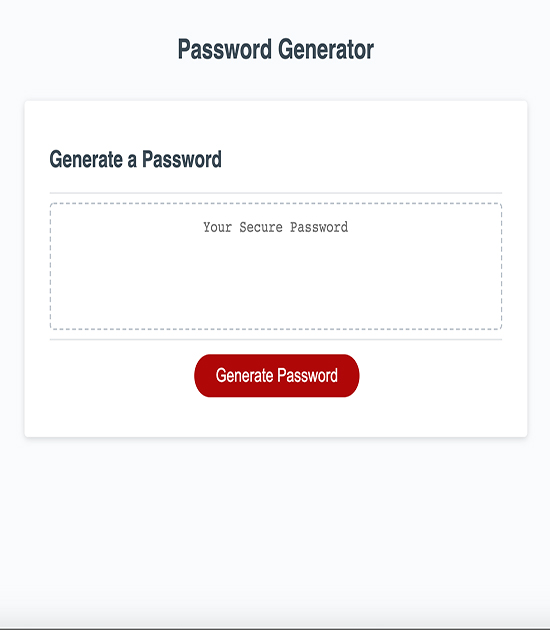
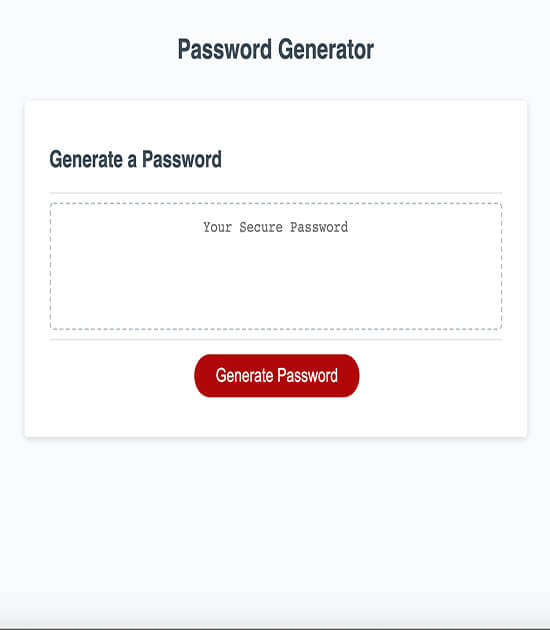
ruduce image size

diff --git a/css/style.css b/css/style.css
@@ -160,14 +160,6 @@ h3{
     color: #3A1414;
 }
 
-h4{
-  display: block;
-  margin-bottom: 25px;
-  font-size: 18px;
-  line-height: 25px;
-  font-family: 'Jost', sans-serif;
-  color: #3A1414;
-}
 
 h5{
     display: block;
